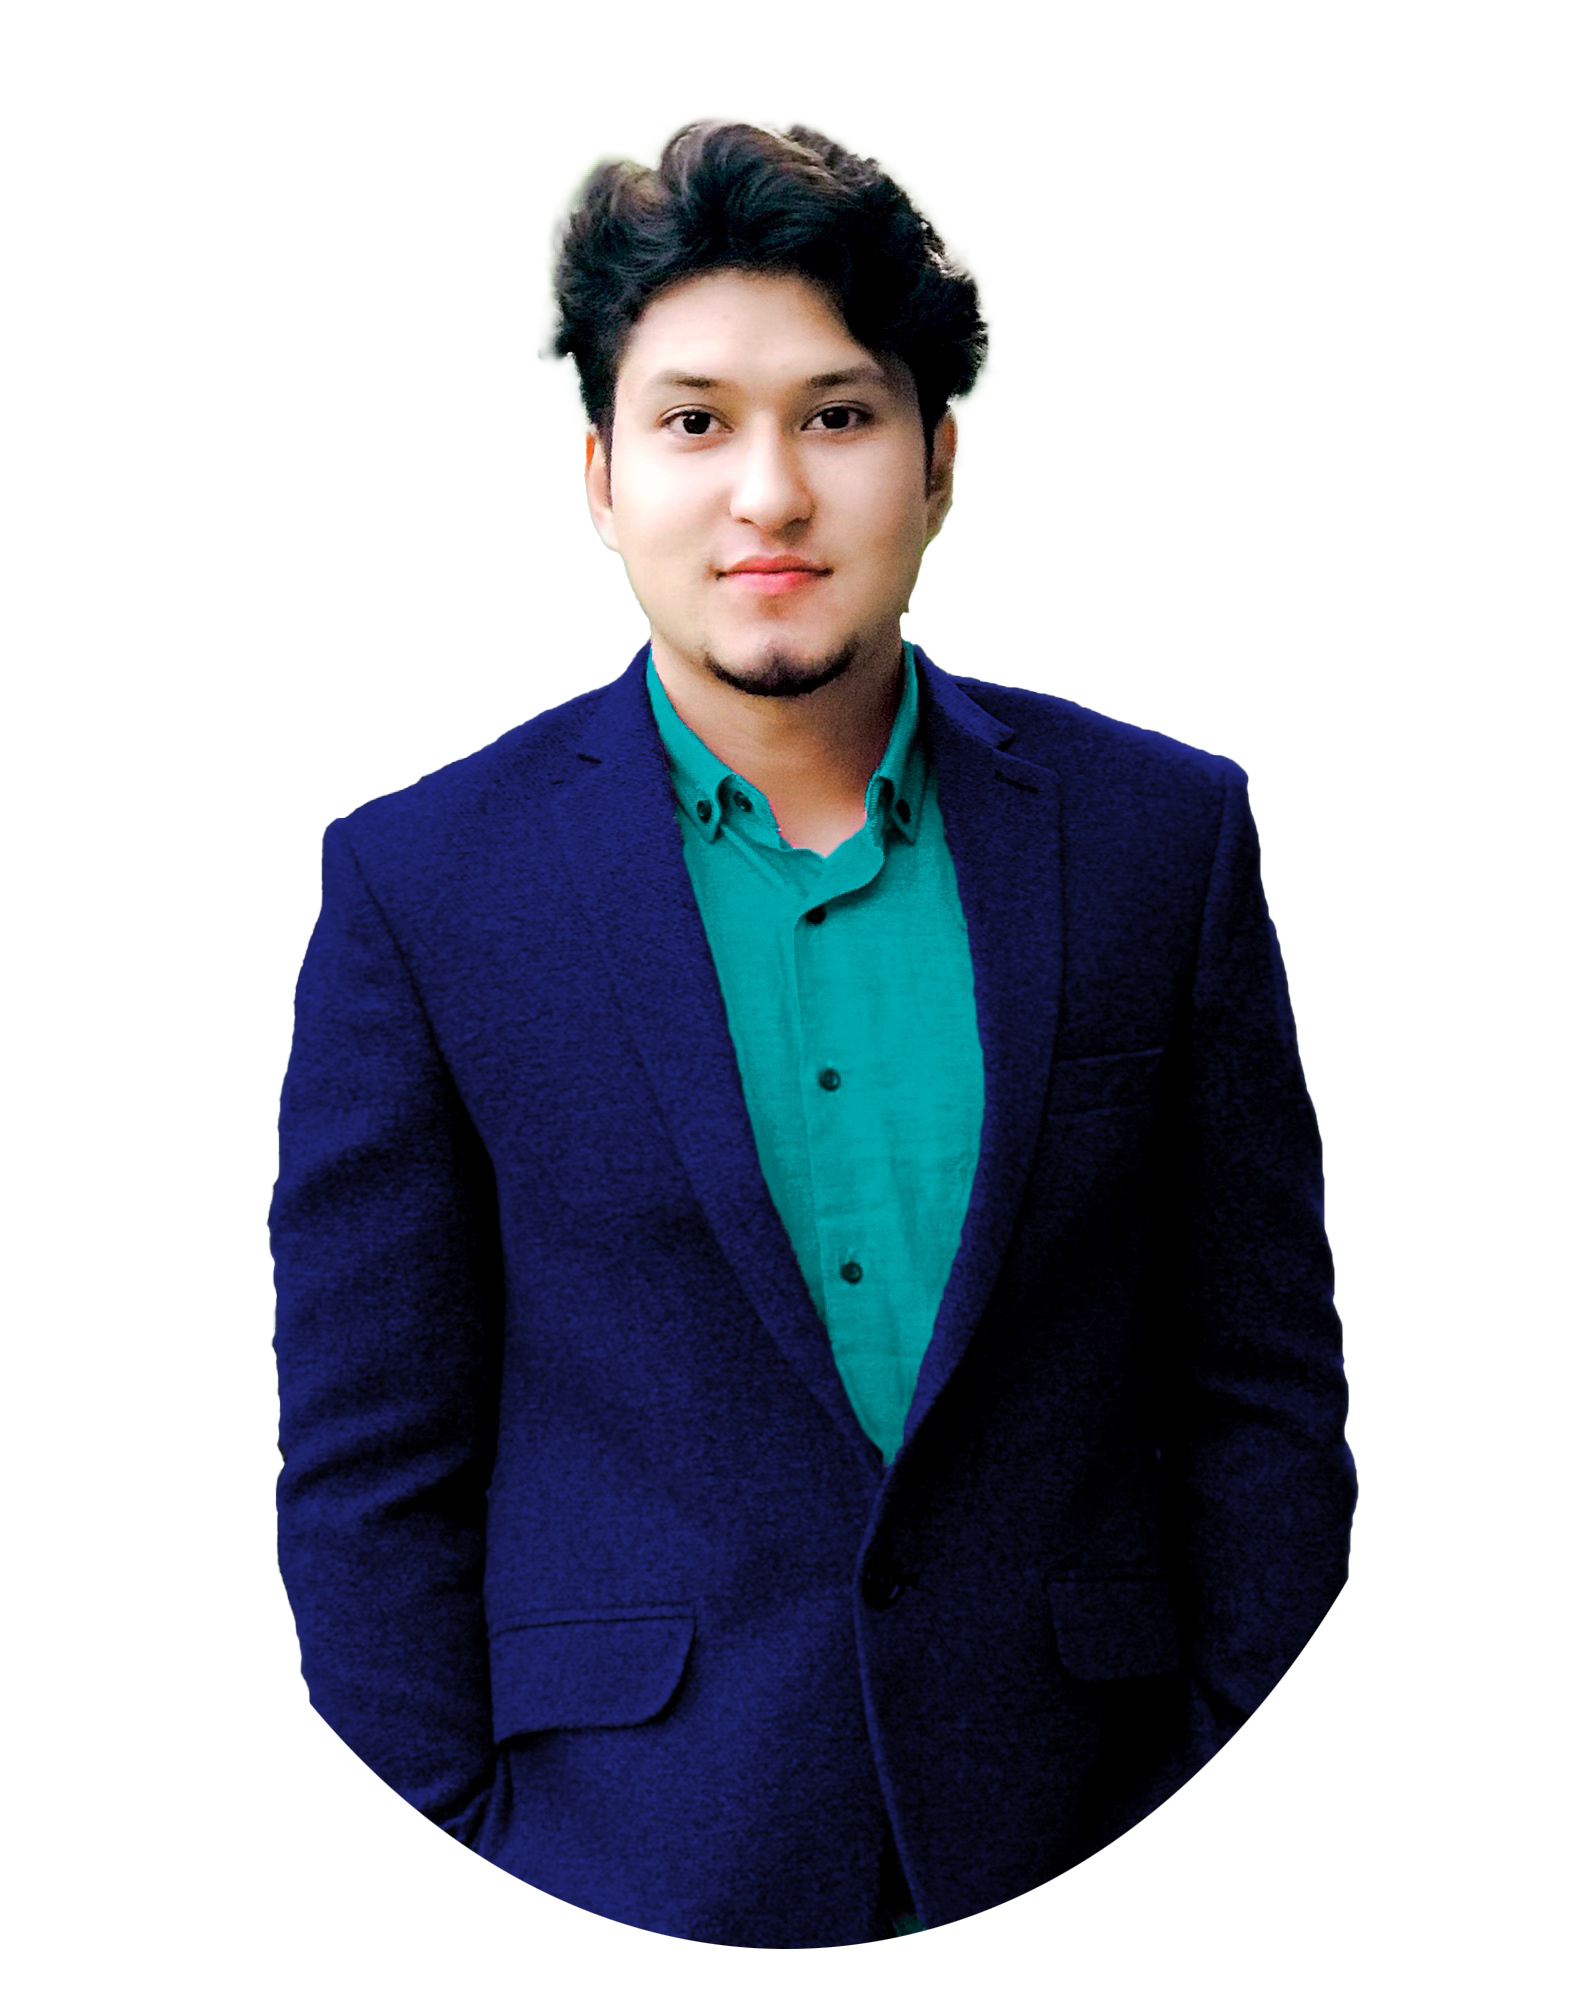
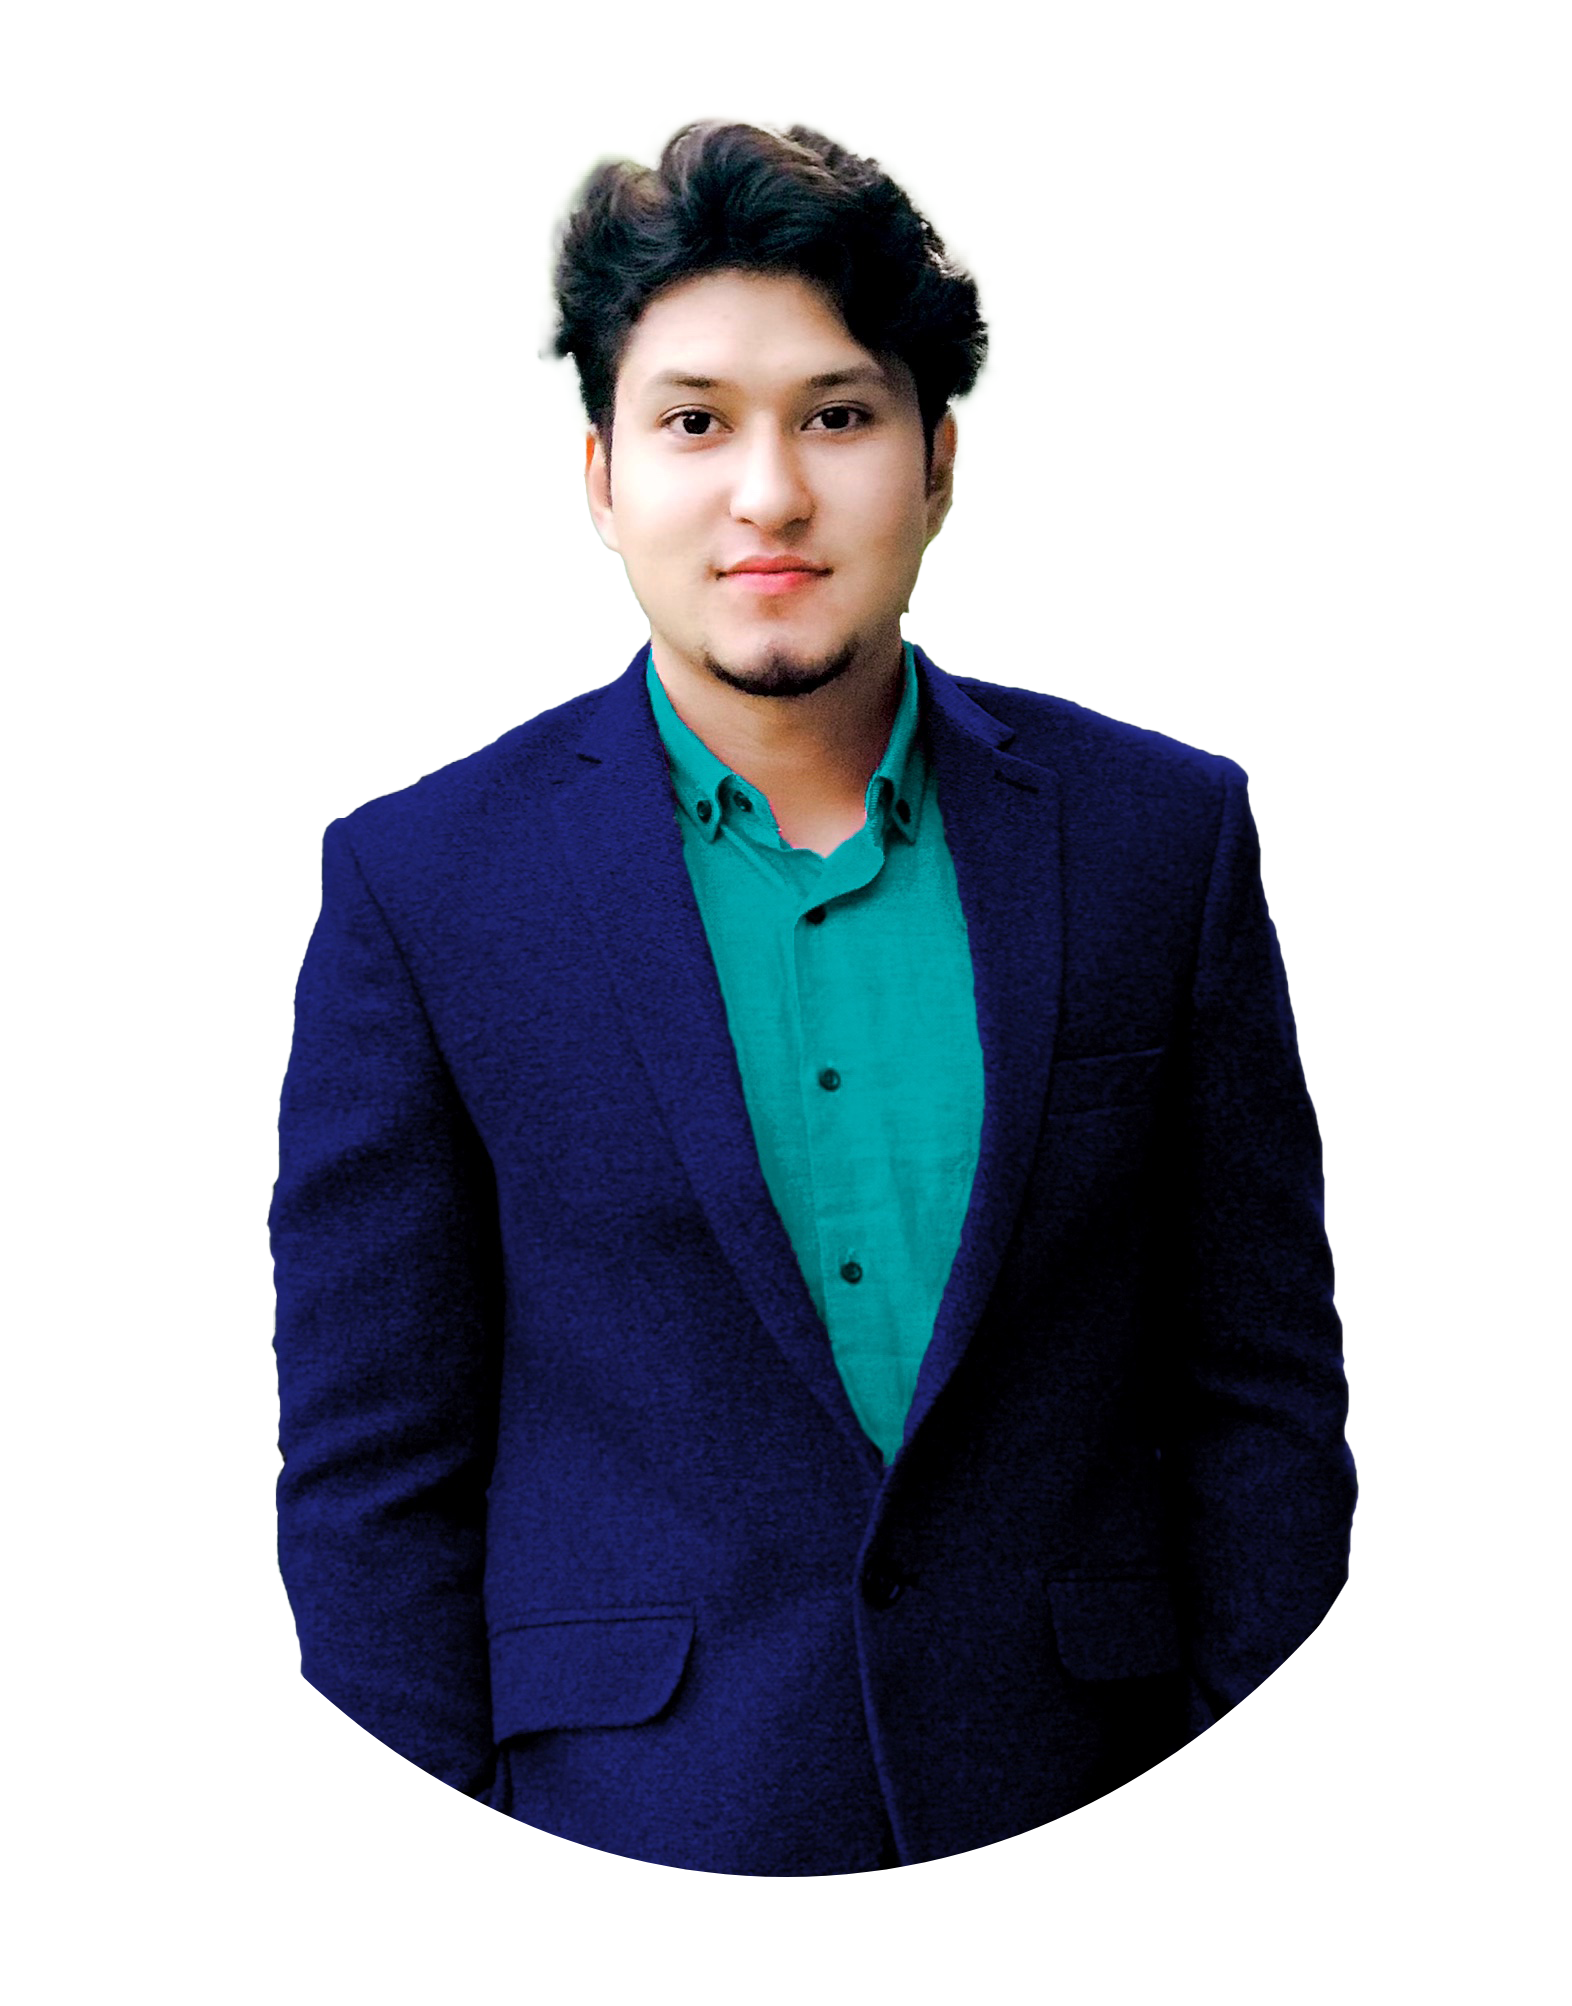
Add the updated profile pic

Changed region(s): [[0.187, 0.8345, 0.7793, 0.989], [0.8104, 0.8036, 0.8416, 0.8345], [0.7793, 0.8345, 0.8104, 0.8654]]

diff --git a/frontend/src/container/Header/Header.jsx b/frontend/src/container/Header/Header.jsx
@@ -45,7 +45,7 @@ const Header = () => {
         transition={{ duration: 0.5, delayChildren: 0.5 }}
         className="app__header-img"
       >
-        <img src={images.profile} alt="profile background" />
+        <img src={images.profile} alt="profile background" class="profile-pic"/>
         <motion.img
           whileInView={{ scale: [0, 1] }}
           transition={{ duratio: 1, ease: "easeInOut" }}

diff --git a/frontend/src/container/Header/Header.scss b/frontend/src/container/Header/Header.scss
@@ -82,6 +82,7 @@
     }
   }
 
+
   span {
     font-size: 2.5rem;
 
@@ -188,6 +189,7 @@
 
   img {
     width: 100%;
+    height: 100%;
     object-fit: contain;
     z-index: 1;
   }
@@ -196,7 +198,7 @@
     position: absolute;
     left: 0;
     right: 0;
-    bottom: 0;
+    bottom: 5px;
     z-index: 0;
     width: 100%;
     height: 90%;
